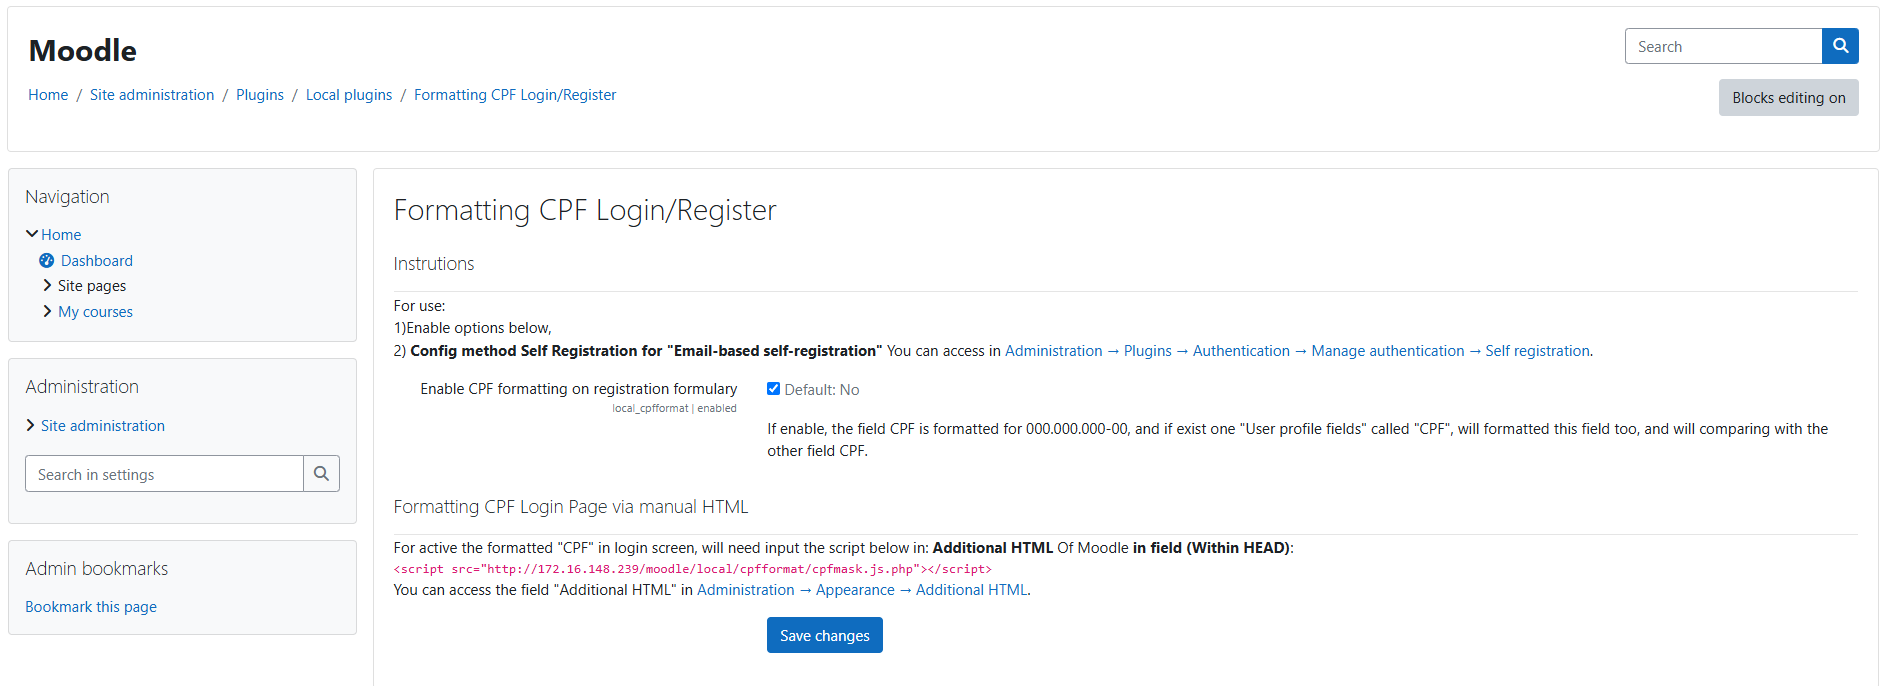
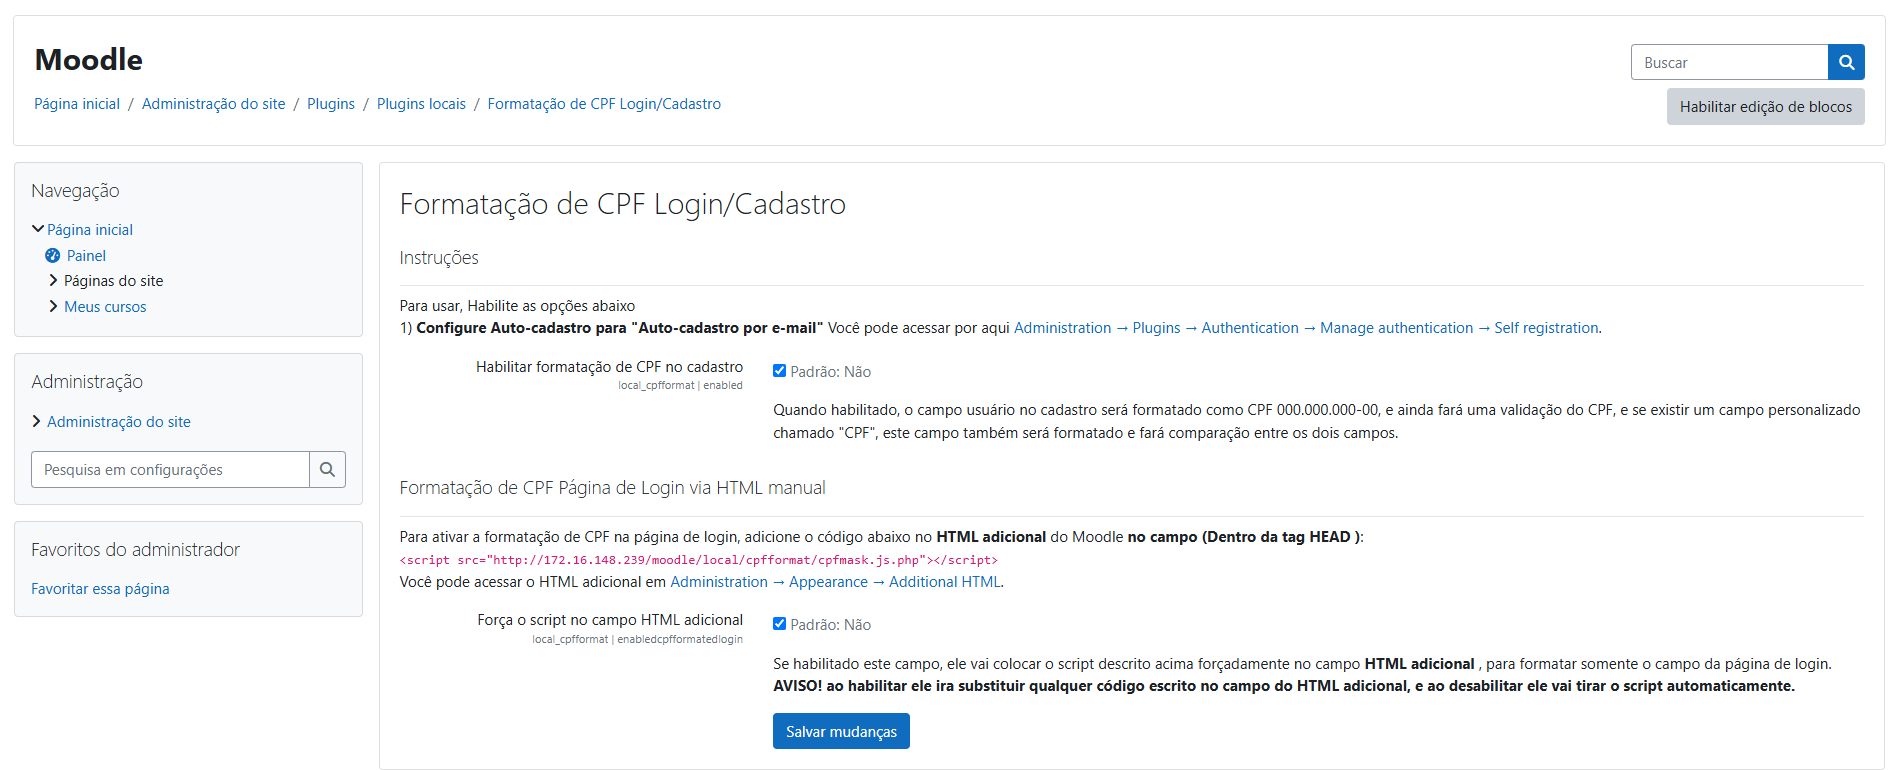
cpfformat_v2.1
Ajustes e melhorias do cpfformat adicionei uma função que força colocar o código automaticamente no campo de html adicional

diff --git a/lang/en/local_cpfformat.php b/lang/en/local_cpfformat.php
@@ -4,7 +4,7 @@
  * Language file.
  *
  * @package   local_cpfformat
- * @copyright 2025 Luiz Henrique Carvalho Vacilio - lh05447511@gmail.com
+ * @copyright 2025 Lyelfiz - LHCV - contact: https://github.com/Lyelfiz/cpfformat
  * @license   http://www.gnu.org/copyleft/gpl.html GNU GPL v3 or later
  */
 
@@ -34,7 +34,7 @@ $string['thecpfnotmatch'] = 'The CPFs entered do not match.';
 
 // Settings for CPF format plugin
 $string['instructions'] = 'Instrutions';
-$string['descinstructions'] = 'For use:<br>1)Enable options below,<br>2) <strong>Config method Self Registration for "Email-based self-registration" </strong>';
+$string['descinstructions'] = 'For use, Enable options below,<br>1) <strong>Config method Self Registration for "Email-based self-registration" </strong>';
 $string['descinstructions'] .= ' You can access in ' . $enableselfregister . '.';
 
 $string['enabled_register'] = 'Enable CPF formatting on registration formulary';
@@ -44,3 +44,9 @@ $string['inject_html_manual'] = 'Formatting CPF Login Page via manual HTML';
 $string['manual_js_code_desc'] = 'For active the formatted "CPF" in login screen, will need input the script below in: <strong>Additional HTML</strong> Of Moodle <strong>in field (Within HEAD)</strong>:<br>';
 $string['manual_js_code_desc'] .= '<code>&lt;script src="' . $jsurl . '"&gt;&lt;/script&gt;</code><br>';
 $string['manual_js_code_desc'] .= 'You can access the field "Additional HTML" in ' . $enableformatlogin .'.';
+
+$string['enabledcpfformatedlogin'] = 'Force script code in Additional HTML field';
+$string['enabledcpfformatedlogin_desc'] = 'If enable, will set forced the script in HTML head in <strong>aditional HTML field</strong>, to format the CPF field in login page.<br><strong>WARNING: If you have other plugins that also add code to this field, it may cause conflicts. Use with caution.</strong>';
+
+$string['development_info'] = 'Development Info';
+$string['development_info_desc'] = 'Developed by Lyelfiz - LHCV<br>For updates and support, visit the GitHub repository: <a href="https://github.com/Lyelfiz/cpfformat" target="_blank">https://github.com/Lyelfiz/cpfformat</a>';

diff --git a/settings.php b/settings.php
@@ -21,7 +21,7 @@ if ($hassiteconfig) {
             'local_cpfformat/enabled',
             get_string('enabled_register', 'local_cpfformat'),
             get_string('enabled_desc', 'local_cpfformat'),
-            0 // Default enabled
+            0 // Default disabled
         ));
 
         // Enable manual HTML injection setting
@@ -30,7 +30,41 @@ if ($hassiteconfig) {
             get_string('inject_html_manual', 'local_cpfformat'),
             get_string('manual_js_code_desc', 'local_cpfformat'),
         ));
+
+        // Enable/disable in login page plugin setting
+        $settings->add(new admin_setting_configcheckbox(
+            'local_cpfformat/enabledcpfformatedlogin',
+            get_string('enabledcpfformatedlogin', 'local_cpfformat'),
+            get_string('enabledcpfformatedlogin_desc', 'local_cpfformat'),
+            0 // Default disabled
+        ));
     }
 
+        // Development info
+        $settings->add(new admin_setting_heading(
+            'local_cpfformat/development_info',
+            get_string('development_info', 'local_cpfformat'),
+            get_string('development_info_desc', 'local_cpfformat'),
+        ));
+
     $ADMIN->add('localplugins', $settings);
+}
+
+// Manage the inclusion of the JS script in additionalhtmlhead based on the setting
+$enableloginscript = get_config('local_cpfformat', 'enabledcpfformatedlogin') ?? 0;
+$scriptlocal = '<script src="' . $CFG->wwwroot . '/local/cpfformat/cpfmask.js.php"></script>';
+
+// If enabled, ensure the script is included in additionalhtmlhead
+if ($enableloginscript) {
+    if (empty($CFG->additionalhtmlhead) ||
+        strpos($CFG->additionalhtmlhead, $scriptlocal) === false) {
+        set_config('additionalhtmlhead', $scriptlocal);
+    }
+} else {
+    // If disabled, remove the script if it exists
+    if (!empty($CFG->additionalhtmlhead) &&
+        strpos($CFG->additionalhtmlhead, $scriptlocal) !== false) {
+        $newvalue = str_replace($scriptlocal, '', $CFG->additionalhtmlhead);
+        set_config('additionalhtmlhead', $newvalue);
+    }
 }

diff --git a/lang/pt_br/local_cpfformat.php b/lang/pt_br/local_cpfformat.php
@@ -4,7 +4,7 @@
  * Language file.
  *
  * @package   local_cpfformat
- * @copyright 2025 Luiz Henrique Carvalho Vacilio - lh05447511@gmail.com
+ * @copyright 2025 Lyelfiz - LHCV - contact: https://github.com/Lyelfiz/cpfformat
  * @license   http://www.gnu.org/copyleft/gpl.html GNU GPL v3 or later
  */
 
@@ -35,7 +35,7 @@ $string['thecpfnotmatch'] = 'Os CPF não são iguais.';
 
 // Settings for CPF format plugin
 $string['instructions'] = 'Instruções';
-$string['descinstructions'] = 'Para usar:<br>1) Habilite as opções abaixo<br>2) <strong>Configure Auto-cadastro para "Auto-cadastro por e-mail"</strong>';
+$string['descinstructions'] = 'Para usar, Habilite as opções abaixo<br>1) <strong>Configure Auto-cadastro para "Auto-cadastro por e-mail"</strong>';
 $string['descinstructions'] .= ' Você pode acessar por aqui ' . $enableselfregister . '.';
 
 $string['enabled_register'] = 'Habilitar formatação de CPF no cadastro';
@@ -46,3 +46,9 @@ $string['manual_js_code_desc'] = 'Para ativar a formatação de CPF na página d
 )</strong>:<br>';
 $string['manual_js_code_desc'] .= '<code>&lt;script src="' . $jsurl . '"&gt;&lt;/script&gt;</code><br>';
 $string['manual_js_code_desc'] .= 'Você pode acessar o HTML adicional em ' . $enableformatlogin . '.';
+
+$string['enabledcpfformatedlogin'] = 'Força o script no campo HTML adicional';
+$string['enabledcpfformatedlogin_desc'] = 'Se habilitado este campo, ele vai colocar o script descrito acima forçadamente no campo<strong> HTML adicional </strong>, para formatar somente o campo da página de login.<br><strong>AVISO! ao habilitar ele ira substituir qualquer código escrito no campo do HTML adicional, e ao desabilitar ele vai tirar o script automaticamente.</strong>';
+
+$string['development_info'] = 'Informações de Desenvolvimento';
+$string['development_info_desc'] = 'Desenvolvido por Lyelfiz - LHCV<br>Para updates e suporte, acesse ao repositório do GitHub: <a href="https://github.com/Lyelfiz/cpfformat" target="_blank">https://github.com/Lyelfiz/cpfformat</a>';

diff --git a/lib.php b/lib.php
@@ -1,6 +1,18 @@
 <?php
 defined('MOODLE_INTERNAL') || die();
 
+/*
+// Old Hook to inject JS in the login page if enabled in settings
+function local_cpfformat_before_http_headers() {
+    global $PAGE;
+
+    //  Only add script if enabled in settings
+    if (get_config('local_cpfformat', 'enabledcpfformatedlogin')) {
+        $PAGE->requires->js(new moodle_url('/local/cpfformat/cpfmask.js.php'));
+    }
+}
+*/
+
 // Extend the signup form to include CPF formatting and Brazilian cities
 function local_cpfformat_extend_signup_form($mform)
 {
@@ -65,7 +77,6 @@ function local_cpfformat_extend_signup_form($mform)
         // Add custom JavaScript for CPF formatting
         $PAGE->requires->js_init_code(local_cpfformat_get_js());
     }
-
 
 }
 

diff --git a/version.php b/version.php
@@ -1,11 +1,11 @@
 <?php
 
-// The plugin is developed by Luiz Henrique Carvalho Vacilio - contact: lh05447511@gmail.com
+// The plugin is developed by Lyelfiz - LHCV - contact: https://github.com/Lyelfiz/cpfformat
 
 defined('MOODLE_INTERNAL') || die();
 
-$plugin->version = 2025082700;
+$plugin->version = 2025082900;
 $plugin->requires = 2024041900;
 $plugin->component = 'local_cpfformat';
-$plugin->release = '1.0';
+$plugin->release = '2.0.0';
 $plugin->maturity = MATURITY_STABLE;

diff --git a/README.md b/README.md
@@ -4,9 +4,9 @@ local_cpfformat is plugin of moodle - Dev: Lyelfiz - LHCV
 
 IMPORTANT NOTE: This plugin is under development. Use at your own risk!
 
-[![Releases](https://img.shields.io/github/release/qubyte/cpfformat.svg?style=flat-square)](https://github.com/Lyelfiz/cpfformat/releases)
+[![Releases](https://img.shields.io/github/release/Lyelfiz/cpfformat.svg?style=flat-square)](https://github.com/Lyelfiz/cpfformat/releases)
 ![PHP](https://img.shields.io/badge/PHP-v7.0%20to%20v8.2-blue.svg)
-![Moodle](https://img.shields.io/badge/Moodle-v4.4.9+%20to%20v5.0.0.X-orange.svg)
+![Moodle](https://img.shields.io/badge/Moodle-v4.4.9+%20to%20v5.0.0+-orange.svg)
 [![GitHub Issues](https://img.shields.io/github/issues/Lyelfiz/cpfformat.svg)](https://github.com/Lyelfiz/cpfformat/issues)
 [![Contributions welcome](https://img.shields.io/badge/contributions-welcome-green.svg)](#contributing)
 [![License](https://img.shields.io/badge/License-GPL%20v3-blue.svg)](#license)
